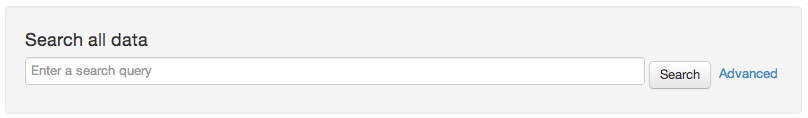
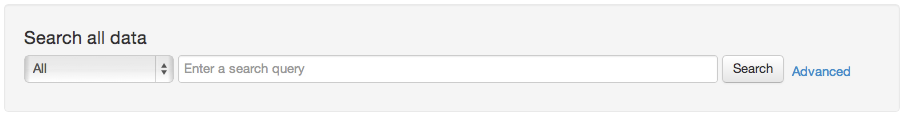
Document category search. Closes #834.

Changed region(s): [[0.0, 0.4615, 0.9592, 0.7179], [0.0, 0.2564, 0.1856, 0.4103], [0.8045, 0.7436, 0.8973, 0.7692]]

diff --git a/docs/searching_data.rst b/docs/searching_data.rst
@@ -7,17 +7,24 @@ PANDA provides to important ways of searching for data. From the "Search" page y
 Searching across all datasets
 =============================
 
-To search across all datasets click the "Search" link from the navigation bar across the top of the screen. (This is also the default or "home" page for your PANDA.) You will see a search form at the top of the page.
+To search across all datasets click the "Search" link from the navigation bar across the top of the screen. (This is also the default homepage for PANDA.) You will see a search form at the top of the page.
 
 .. figure::  images/panda-search.png
 
 Enter your search keywords. The more detailed your search, the fewer results you should expect to get. Keep in mind that the order of the terms doesn't matter, so if you are searching for a particular individual you can input the name as "first last" or "last first" without affecting the results.
 
-PANDA can not know about variations in terms, such as nick-names or abbreviations. If you need to search for such variations you will want to consult the advanced search features. Hover your mouse over the word "Advanced" for details.
+PANDA can not know about variations in terms, such as plurals or mispellings. (Though it will attempt to automatically match nicknames!) If you need to search for such variations you will want to consult the advanced search features. Hover your mouse over the word "Advanced" for details.
 
-As an example, searching for ``doe AND (jon OR john OR jane)`` will (presumably) find all John and Jane Doe's in any dataset.
+As an example, searching for ``doe AND (jon OR john OR jane)`` will (barring typos) find all John and Jane Doe's in any dataset.
 
 Once you have your query constructed click the "Search" button. On the resulting page you will see a list of datasets that had matching data, with some example rows from each. If there are more results than could be displayed in the preview there will be a "View more results from this dataset" link that will take you to complete search within that specific dataset.
+
+Searching all data within a category
+====================================
+
+You can also search across just those datasets within specific category. This functions exactly like the search described in the previous section except that you will also want to select a category from the drop down immediately to the left of the search box. (Displaying "All" in the image above.) Only datasets within the selected category will be searched.
+
+There is currently no way to search across more than one category at a time.
 
 Searching within a single dataset
 =================================
@@ -29,3 +36,4 @@ To search across a specific dataset visit its details page. At the top of that p
 This search field functions identically to the universal search function described above, with the exception that it only searches within a single dataset. For details of how to use advanced search syntax or to search using "column filters", click the "More search options" link.
 
 To learn how to search *for datasets*, rather than data, read :doc:`searching_datasets`.
+
